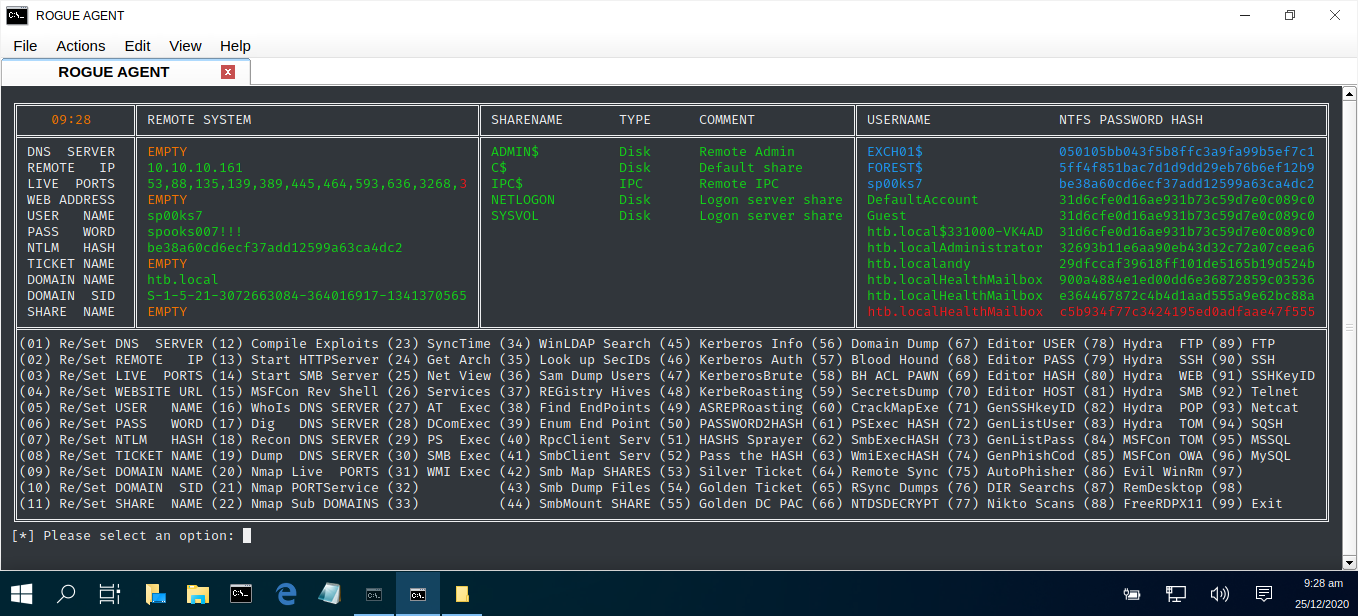
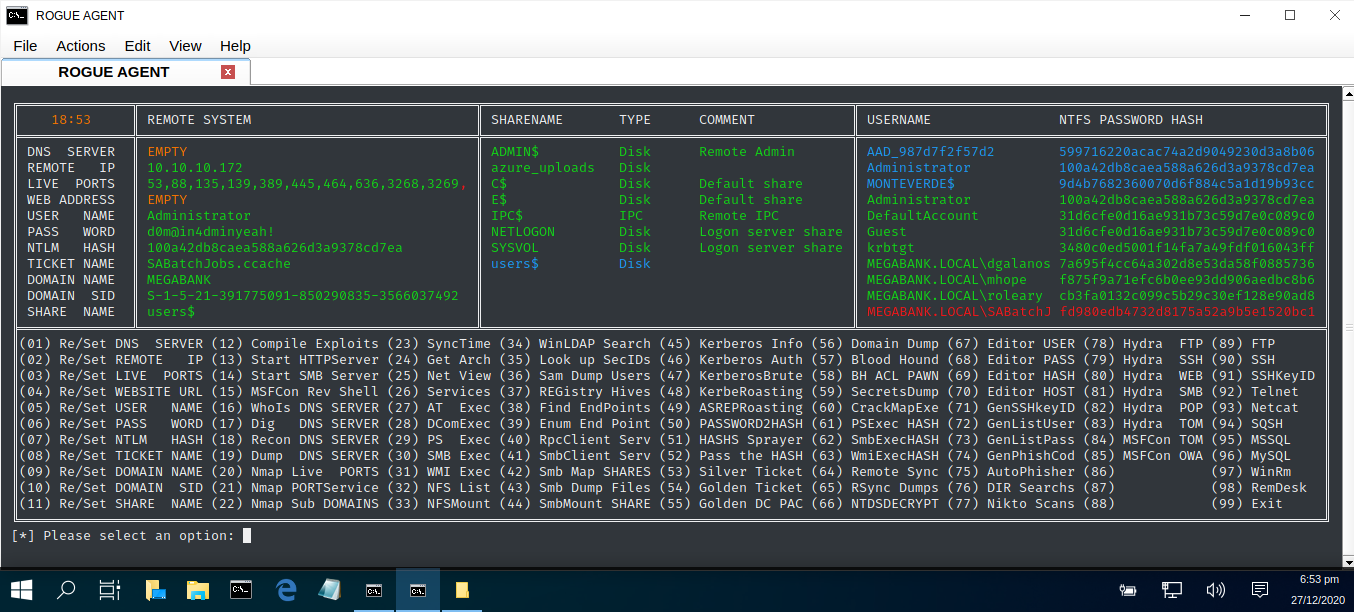
TREADSTONE

Changed region(s): [[0.0, 0.0621, 1.0, 0.9935], [0.031, 0.0, 0.0931, 0.031]]

diff --git a/rogue-agent.py b/rogue-agent.py
@@ -1578,6 +1578,9 @@ while True:
 
    if selection =='32':
       checkParams = testTwo()
+      
+      if checkParams != 1:
+         checkParams = testFour("2049")
 
       if checkParams != 1:
          command("showmount -e " + TIP.rstrip(" ") + " > mount.tmp")
@@ -1605,6 +1608,9 @@ while True:
 
    if selection == '33':
       checkParams = testTwo()
+      
+      if checkParams != 1:
+         checkParams = testFour("2049")
 
       if checkParams != 1:
          mount = input("[*] Please enter NFS name : ")

diff --git a/README.md b/README.md
@@ -28,7 +28,7 @@ A comprehensive, yet sleek and portable python script file that enables cyber se
 | LANGUAGE  | FILENAME       | MD5 Hash                         | Description     | Version    |
 |------     |-------         | -------                          | ----            |  ----       |
 | python3   | install.py     | 2e0b5266230a02f033ffb363444986fa | Install Program | TREADSTONE |
-| python3   | rogue-agent.py | 6a39ed4b95a813edf3bc9213ebc9827c | Command Centre  | TREADSTONE |
+| python3   | rogue-agent.py | 9aeb82c2a07d790cb5ed6e255c79b27f | Command Centre  | TREADSTONE |
        
 ## CONSOLE DISPLAY AND VIDEO LINK
 
